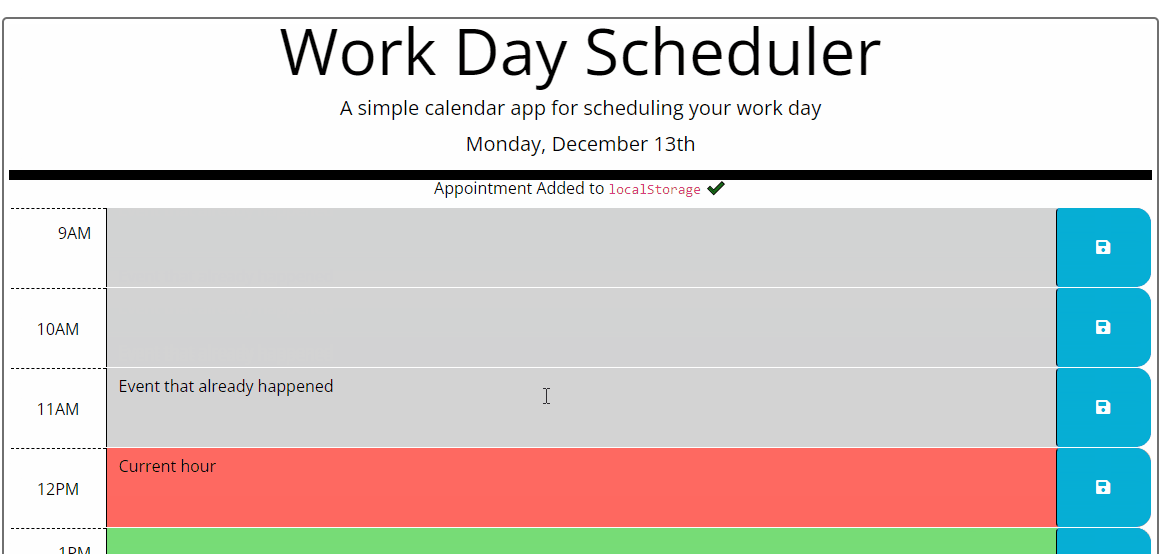
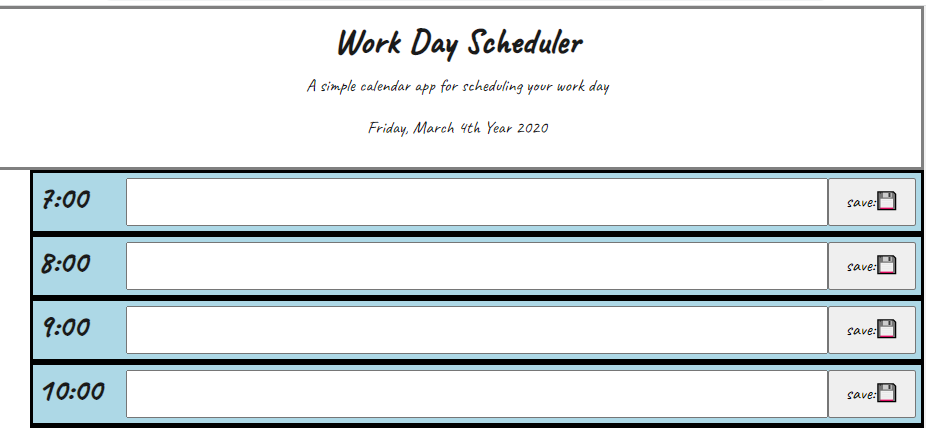
new image, created listElement in main.js and style.css

diff --git a/assets/js/main.js b/assets/js/main.js
@@ -1,7 +1,7 @@
 /*
 GIVEN I am using a daily planner to create a schedule
 WHEN I open the planner
-THEN the current day is displayed at the top of the calendar
+
 WHEN I scroll down
 THEN I am presented with timeblocks for standard business hours
 WHEN I view the timeblocks for that day
@@ -12,3 +12,64 @@ WHEN I click the save button for that timeblock
 THEN the text for that event is saved in local storage
 WHEN I refresh the page
 THEN the saved events persist */
+
+
+// THEN the current day is displayed at the top of the calendar
+let todayDate = "Friday, March 4th  Year 2020";
+
+let curDateEl = $('#currentDate');
+let scheduleDisplay = $('#mainDisplay');
+
+curDateEl.text(todayDate);
+
+// so let's create the time blocks.
+
+let timeBlocks = [7,8,9,10,11,12,1,2,3,4,5,6];
+
+for(let i in timeBlocks){
+    //
+    let timeString = timeBlocks[i]+":00";
+    let listElement = $('<li>');
+//    listElement.text(timeString);
+listElement.attr('class','listHourEvent');
+listElement.attr('data-time',timeBlocks[i]);
+
+    let timeElement = $('<h2>');
+    timeElement.attr('class','timeEvent');
+    timeElement.text(timeString);
+    listElement.append(timeElement);
+    let noteElement = $('<textarea>');
+    noteElement.attr('class','noteEvent');
+    listElement.append(noteElement);
+
+    let saveElement = $('<button>');
+    saveElement.attr('class','saveEvent');
+    saveElement.text('save:💾')
+    listElement.append(saveElement);
+
+    scheduleDisplay.append(listElement);
+}
+//let timeBlocks = [7,8,9,10,11,12,13,14,15,16,17,18]; if we do european
+// timeBlocks is the data structure
+/*an Event will have
+{
+    timeHour: // only the hour no need to complicate this
+    info:
+} */
+/* as an element it is in the <ol> element
+
+        <li class ="listHourEvent">
+            <h2 class="timeEvent"> 11:50 </h2>
+            <textarea class ="noteEvent" multiple> Stuff happening </textarea>
+            <button class = "saveEvent"> Save </button>
+        </li>
+*/
+
+
+
+// Then we would create a day scheduler starting at 5 am and finishing at 5 pm
+// so it would need to create 12 of these
+
+// It will also need to load data from localStorage or whatever.
+
+// so first let's just create some fake data to work wiht.

diff --git a/index.html b/index.html
@@ -12,12 +12,16 @@
     <link href="https://fonts.googleapis.com/css2?family=Caveat:wght@500&display=swap" rel="stylesheet">    
 </head>
 <body>
+
     <header>
         <h1>Work Day Scheduler</h1>
         <p>A simple calendar app for scheduling your work day</p>
         <p id="currentDate"></p>
     </header>
-    <div id="mainDisplay"></div>
+
+    <ul id="mainDisplay">
+    </ul>
+
     <script src="https://cdnjs.cloudflare.com/ajax/libs/lodash.js/4.17.21/lodash.min.js"></script>
     <script src="https://code.jquery.com/jquery-3.5.1.min.js"></script>
     <script type="text/javascript" src="./assets/js/main.js"></script>

diff --git a/assets/css/style.css b/assets/css/style.css
@@ -8,3 +8,27 @@ header {
     padding: 10px;
     border: 3px solid grey;
 }
+
+.listHourEvent {
+/*    background-color: yellow;*/
+    border: 3px solid black;
+    background-color: lightblue;
+    display: flex;
+    justify-content: space-between;
+    padding: 5px;
+    
+}
+
+h2 {
+    width:10%;
+}
+
+button {
+    width:10%
+}
+
+textarea {
+    width: 80%;
+    resize: none;
+
+}
